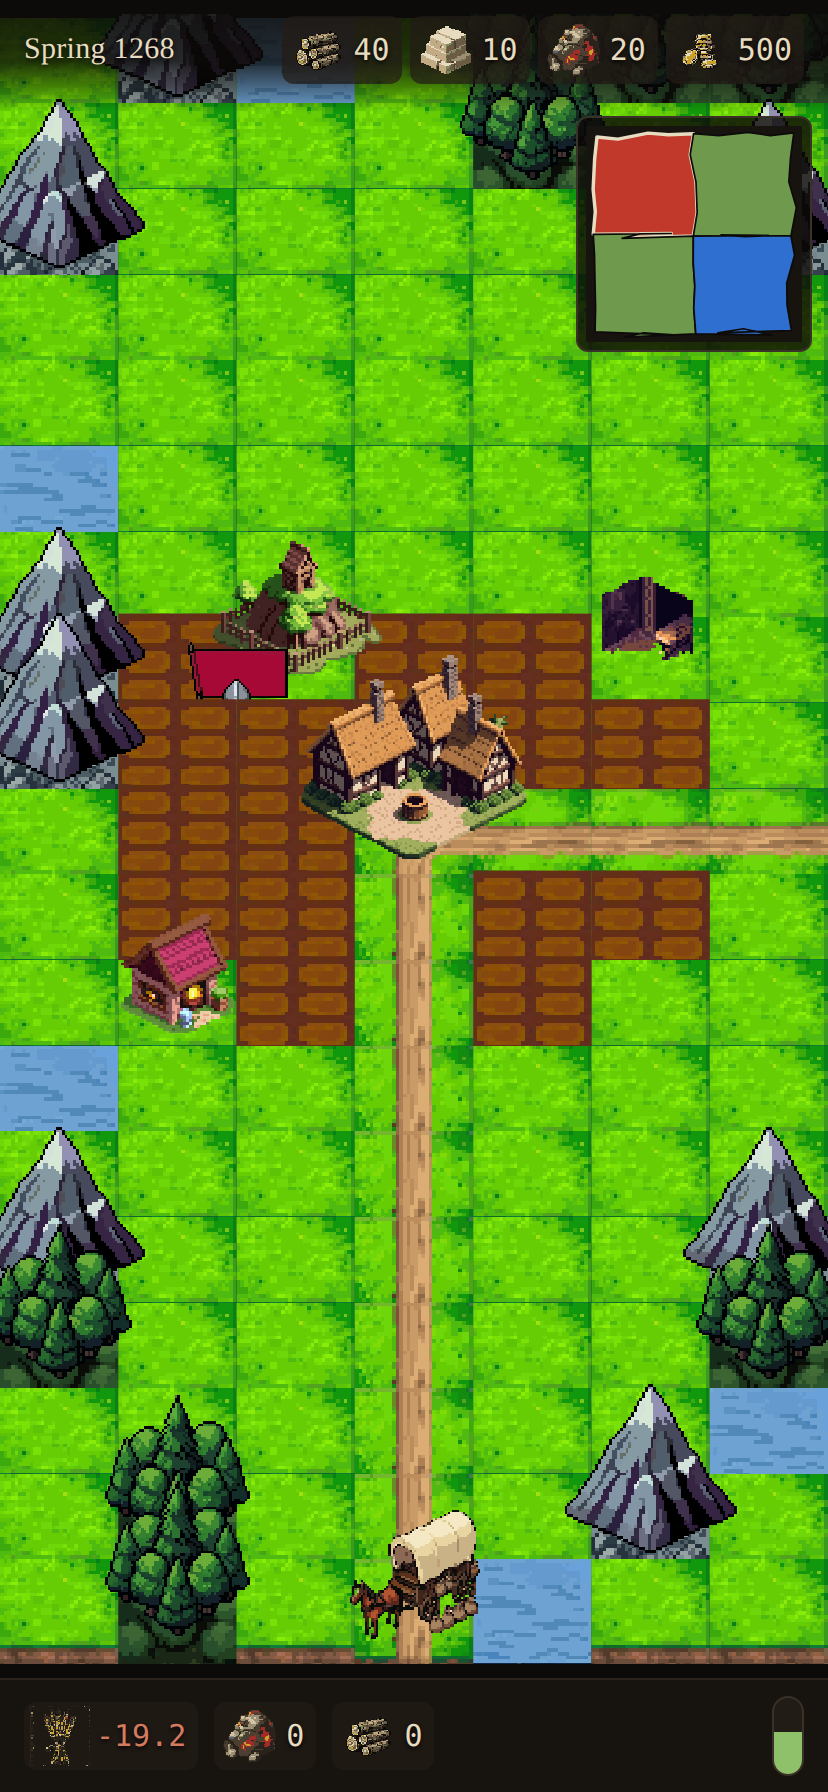
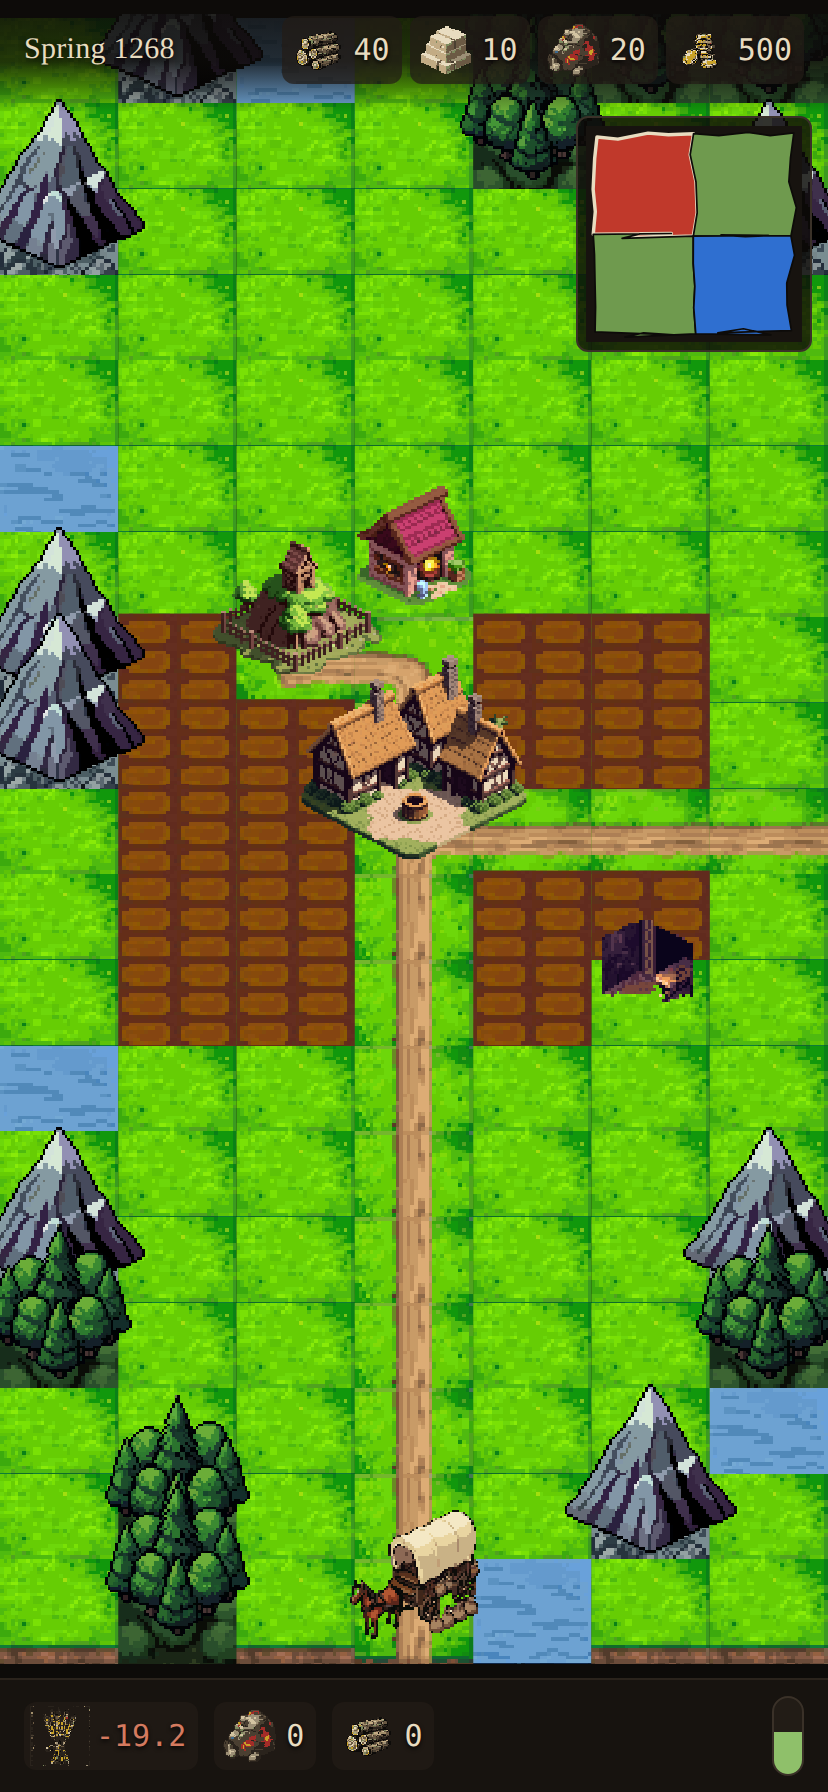
Garrisons stay in the keep, sprites stop getting clipped, roads reach the gate
Three fixes.

A garrison is INSIDE its castle, so it is no longer drawn on the map. The keep
already says the county is held; a token standing in the field beside it says
the men are in the field, which is the opposite of what garrisoned means.
Tokens belong to armies on the march — and a marching army is in transit along
a BORDER between counties, not on a cell inside one, so where it draws is a
question for the realm map rather than this screen. The army-token code comes
out of the county renderer instead of sitting there unused; the art, the
accessors and armies.html all stay.

The figure that came out as "a head and a flag" was a layering bug, not bad
art. Tiles and sprites were interleaved in one pass, so a man standing on row
r had his legs painted over by the ground tile of row r+1 — that tile is drawn
later and its canvas overlaps upward. Buildings survive losing their base; a
man does not. Now every tile is drawn, then every sprite, each in row order:
sprites still occlude each other correctly, and flat ground in front of a
standing figure no longer hides it, which it never should have.

Every castle now has a road to its gate. A keep a road cannot reach is a keep
nothing can relieve, resupply or besiege by the movement rules the rest of the
map obeys. The castle position moved out into its own function because the
roads have to know it before the interior exists.

That change broke the caravan's starting position in a way worth recording:
[…]

diff --git a/src/ui/county/CountyOverhead.tsx b/src/ui/county/CountyOverhead.tsx
@@ -7,9 +7,6 @@ import { healthFromRations, projectProduction, type Health } from '../../domain/
 import type { Resource } from '../../domain/resources';
 import { describeTurn, seasonOfTurn } from '../../domain/season';
 import {
-  armyBearerArt,
-  armySizeBand,
-  armySoldierArt,
   overheadCastleArt,
   overheadFieldArt,
   overheadForestArt,
@@ -65,29 +62,41 @@ export function CountyOverhead({ county, map, match }: Props) {
   const bounds = { cols: interior.cols, rows: interior.rows };
   const masks = roadMasks(interior.road, bounds);
 
-  // Sprites stand on the ground, so they must be drawn in row order together
-  // with it — a castle two rows back has to be covered by the land in front of
-  // it, not painted over the whole map afterwards.
-  const bandOf = (row: number) => row;
-  const bands = new Map<number, JSX.Element[]>();
-  const put = (row: number, el: JSX.Element) => {
-    const band = bands.get(bandOf(row)) ?? [];
+  // TWO LAYERS, and the split matters.
+  //
+  // Tiles first, all of them, in row order so each row's depth band is covered
+  // by the row in front. THEN sprites, also in row order so they occlude each
+  // other correctly.
+  //
+  // Interleaving them was a real bug: a figure standing on row r had its legs
+  // painted over by the ground tile of row r+1, because that tile is drawn
+  // later and its canvas overlaps upward. Buildings are tall enough to survive
+  // losing their base; a man is not, and came out as a head and a flag.
+  //
+  // Flat ground in front of a standing figure should never hide it — the
+  // ground is at floor level and the figure rises off it.
+  const tiles = new Map<number, JSX.Element[]>();
+  const sprites = new Map<number, JSX.Element[]>();
+  const into = (layer: Map<number, JSX.Element[]>) => (row: number, el: JSX.Element) => {
+    const band = layer.get(row) ?? [];
     band.push(el);
-    bands.set(bandOf(row), band);
+    layer.set(row, band);
   };
+  const putTile = into(tiles);
+  const put = into(sprites);
 
   for (const cell of interior.ground) {
-    put(cell.row, <GroundTile key={`g${cell.col}_${cell.row}`} cell={cell} />);
+    putTile(cell.row, <GroundTile key={`g${cell.col}_${cell.row}`} cell={cell} />);
   }
   // Fields go down over the ground and UNDER the roads: a road is cut through
   // worked land, not ploughed over.
   for (const field of interior.fields) {
-    put(field.row, <FieldTileView key={field.id} field={field} />);
+    putTile(field.row, <FieldTileView key={field.id} field={field} />);
   }
   for (const cell of interior.road) {
     const mask = masks[`${cell.col},${cell.row}`];
     if (mask === undefined) continue;
-    put(cell.row, <RoadTile key={`r${cell.col}_${cell.row}`} cell={cell} mask={mask} />);
+    putTile(cell.row, <RoadTile key={`r${cell.col}_${cell.row}`} cell={cell} mask={mask} />);
   }
   // Peaks and woods are sprites standing on their own ground, not flat tiles.
   // See overheadMountainArt for why that distinction matters at this camera —
@@ -116,23 +125,14 @@ export function CountyOverhead({ county, map, match }: Props) {
     );
   }
 
-  // Armies go down AFTER the buildings they stand beside. Within a row things
-  // paint in the order they were added, so a garrison queued before the keep is
-  // a garrison painted over by it.
-  for (const army of Object.values(match.armies)) {
-    if (army.location.kind !== 'garrison' || army.location.county !== county.id) continue;
-    const owner = match.players.find((p) => p.id === army.owner);
-    put(
-      castle.row,
-      <ArmySprite
-        key={army.id}
-        col={castle.col}
-        row={castle.row}
-        seat={owner?.seat ?? 0}
-        troops={Object.values(army.troops).reduce((a, b) => a + (b ?? 0), 0)}
-      />,
-    );
-  }
+  // GARRISONED ARMIES ARE NOT DRAWN. A garrison is inside its castle, and the
+  // keep on the map already says the county is held — a token standing in the
+  // field beside it says the men are in the field, which is the opposite of
+  // what garrisoned means. Tokens appear when an army takes the road.
+  //
+  // Marching armies are not placed yet: an in-transit army lives on a BORDER
+  // between two counties, not on a cell inside one, so where it draws is a
+  // question for the realm map rather than this screen.
 
   // The caravan, if it is in this county. Its cell always sits on a road —
   // county/movement.ts is what guarantees a wagon can never be anywhere else.
@@ -141,7 +141,8 @@ export function CountyOverhead({ county, map, match }: Props) {
     put(row, <WagonSprite key="merchant" col={col} row={row} />);
   }
 
-  const rows = [...bands.keys()].sort((a, b) => a - b);
+  const tileRows = [...tiles.keys()].sort((a, b) => a - b);
+  const spriteRows = [...sprites.keys()].sort((a, b) => a - b);
 
   return (
     <div className="ov">
@@ -155,8 +156,11 @@ export function CountyOverhead({ county, map, match }: Props) {
           role="img"
           aria-label={`${county.name}, seen from above in ${season}`}
         >
-          {rows.map((row) => (
-            <g key={row}>{bands.get(row)}</g>
+          {tileRows.map((row) => (
+            <g key={`t${row}`}>{tiles.get(row)}</g>
+          ))}
+          {spriteRows.map((row) => (
+            <g key={`s${row}`}>{sprites.get(row)}</g>
           ))}
         </svg>
 
@@ -257,69 +261,6 @@ function MountainSprite({ col, row }: { col: number; row: number }) {
   const art = overheadMountainArt();
   if (art.missing || !art.url) return null;
   return <MapSprite col={col} row={row} url={art.url} size={1.5} label="Mountain" />;
-}
-
-/**
- * An army standing on the map.
- *
- * Two questions answered without opening anything: WHOSE, from the flag the
- * bearer carries in the owner's seat colour, and HOW BIG, from the number of
- * figures — one, two or three for small, medium and large.
- *
- * Only the bearer is coloured. Three men carrying three flags would read as
- * three armies rather than one large one, which is the opposite of what the
- * count is for.
- */
-const FIGURES_FOR: Record<ReturnType<typeof armySizeBand>, number> = {
-  small: 1,
-  medium: 2,
-  large: 3,
-};
-
-/** A loose knot, so two and three read as "more men" and not as a formation. */
-const FIGURE_OFFSETS = [
-  { x: -0.5, y: 0.9 },
-  { x: -0.16, y: 1.32 },
-  { x: -0.84, y: 1.36 },
-] as const;
-
-function ArmySprite({
-  col,
-  row,
-  seat,
-  troops,
-}: {
-  col: number;
-  row: number;
-  seat: number;
-  troops: number;
-}) {
-  const bearer = armyBearerArt(seat);
-  const soldier = armySoldierArt();
-  const count = FIGURES_FOR[armySizeBand(troops)];
-
-  // Bearer last, so his flag is never hidden behind a spearman's shoulder.
-  const figures = FIGURE_OFFSETS.slice(0, count)
-    .map((offset, i) => ({ offset, art: i === 0 ? bearer : soldier, key: i }))
-    .reverse();
-
-  return (
-    <>
-      {figures.map(({ offset, art, key }) =>
-        art.missing || !art.url ? null : (
-          <MapSprite
-            key={key}
-            col={col}
-            row={row}
-            url={art.url}
-            size={1.15}
-            offset={offset}
-            label={`${troops} men`}
-          />
-        ),
-      )}
-    </>
-  );
 }
 
 function ForestSprite({ col, row }: { col: number; row: number }) {

diff --git a/src/ui/county/overheadCamera.test.ts b/src/ui/county/overheadCamera.test.ts
@@ -87,10 +87,18 @@ describe('county roads', () => {
     for (const cell of lastCol) expect(masks[`${cell.col},${cell.row}`]! & E).toBe(E);
   });
 
-  it('lays no road at all for a county with no neighbours', () => {
-    // Not a crash and not a road to nowhere: a county with nothing beside it
-    // still has a town, it just has nothing to connect to.
-    expect(build([]).road).toEqual([{ col: 2, row: 6 }]);
+  it('lays no road OUT of a county with no neighbours, but still one to its keep', () => {
+    // Nothing beside it means nothing to connect to, so no road reaches an
+    // edge. The town-to-castle spur is internal and exists regardless — the
+    // keep has to be reachable whether or not the county has neighbours.
+    const interior = build([]);
+    const onEdge = interior.road.filter(
+      (c) =>
+        c.col <= 0 || c.row <= 0 || c.col >= interior.cols - 1 || c.row >= interior.rows - 1,
+    );
+    expect(onEdge).toEqual([]);
+    expect(interior.road).toContainEqual({ col: interior.castle.col, row: interior.castle.row });
+    expect(interior.road).toContainEqual({ col: interior.town.col, row: interior.town.row });
   });
 
   it('keeps the road clear of fields and impassable ground', () => {
@@ -105,7 +113,7 @@ describe('county roads', () => {
     }
   });
 
-  it('stands the castle apart from the town, off the road and off the rim', () => {
+  it('stands the castle apart from the town and off the rim', () => {
     const interior = build(['e', 's']);
     const { castle, town } = interior;
     expect(castle).not.toEqual(town);
@@ -114,10 +122,35 @@ describe('county roads', () => {
     expect(castle.row).toBeGreaterThan(0);
     expect(castle.row).toBeLessThan(interior.rows - 1);
 
-    const onRoad = interior.road.some((c) => c.col === castle.col && c.row === castle.row);
-    expect(onRoad).toBe(false);
     const onField = interior.fields.some((f) => f.col === castle.col && f.row === castle.row);
     expect(onField).toBe(false);
+  });
+
+  it('always puts a road to the castle gate', () => {
+    // A keep a road cannot reach is a keep nothing can relieve, resupply or
+    // besiege by the movement rules the rest of the map obeys.
+    for (const exits of [['e', 's'], ['n'], ['n', 'e', 's', 'w'], []] as const) {
+      const interior = build(exits);
+      const onRoad = interior.road.some(
+        (c) => c.col === interior.castle.col && c.row === interior.castle.row,
+      );
+      expect(onRoad, `exits=[${exits.join(',')}]`).toBe(true);
+    }
+  });
+
+  it('keeps the castle road joined to the network, not a stranded stub', () => {
+    // The spur has to actually connect: a road AT the gate that touches nothing
+    // else would satisfy the test above while leading nowhere.
+    const interior = build(['e', 's']);
+    const road = new Set(interior.road.map((c) => `${c.col},${c.row}`));
+    const { castle } = interior;
+    const neighbours = [
+      `${castle.col},${castle.row - 1}`,
+      `${castle.col + 1},${castle.row}`,
+      `${castle.col},${castle.row + 1}`,
+      `${castle.col - 1},${castle.row}`,
+    ].filter((k) => road.has(k));
+    expect(neighbours.length).toBeGreaterThan(0);
   });
 
   it('gives a county its hard-mineral site and no other', () => {

diff --git a/src/domain/county/interior.ts b/src/domain/county/interior.ts
@@ -245,7 +245,7 @@ export function createInterior(opts: {
   // --- roads -------------------------------------------------------------
   // Laid FIRST, so the ground layer knows to keep them clear. A road that
   // ends in a mountain is not a road.
-  const road = buildRoads(town, { cols, rows }, exits);
+  const road = buildRoads(town, castleAt(cols, rows), { cols, rows }, exits);
   const onRoad = new Set(road.map((c) => cellKey(c.col, c.row)));
 
   // Far enough from the town to read as its own building, close enough to
@@ -365,6 +365,25 @@ export function createInterior(opts: {
 }
 
 /**
+ * Where the keep stands.
+ *
+ * One column across and two rows back from the town: diagonal, so the two
+ * sprites never touch, and never on the grid's outer ring where half the keep
+ * would sit off the edge of the view.
+ *
+ * Computed rather than stored because the roads have to know it before the
+ * interior exists — a castle a road cannot reach is a castle nothing can
+ * relieve, resupply or besiege by the rules the map is drawn to.
+ */
+function castleAt(cols: number, rows: number) {
+  const town = { col: Math.floor(cols / 2), row: Math.floor(rows / 2) };
+  return {
+    col: Math.min(cols - 2, Math.max(1, town.col - 1)),
+    row: Math.min(rows - 2, Math.max(1, town.row - 2)),
+  };
+}
+
+/**
  * Lay the county's roads: town centre out to each edge that has a neighbour.
  *
  * An L-path (along the row, then along the column) rather than anything
@@ -377,6 +396,7 @@ export function createInterior(opts: {
  */
 function buildRoads(
   town: { readonly col: number; readonly row: number },
+  castle: { readonly col: number; readonly row: number },
   bounds: { readonly cols: number; readonly rows: number },
   exits: readonly Exit[],
 ): { readonly col: number; readonly row: number }[] {
@@ -407,6 +427,16 @@ function buildRoads(
     for (let r = town.row; r !== target.row; r += stepRow) push(target.col, r);
     push(target.col, target.row);
   }
+
+  // A spur to the keep. Every castle must be reachable by road: a garrison is
+  // relieved, resupplied and besieged along one, and a keep sitting in a field
+  // with no way in contradicts the movement rules the rest of the map obeys.
+  // The same L-path as the exits, run inward from the town rather than out.
+  const stepRow = Math.sign(castle.row - town.row);
+  for (let r = town.row; r !== castle.row; r += stepRow) push(town.col, r);
+  const stepCol = Math.sign(castle.col - town.col);
+  for (let c = town.col; c !== castle.col; c += stepCol) push(c, castle.row);
+  push(castle.col, castle.row);
 
   return out;
 }

diff --git a/src/domain/match/createMatch.ts b/src/domain/match/createMatch.ts
@@ -194,12 +194,28 @@ function firstMerchantPost(
   const interior = start ? counties[start.county]?.interior : null;
   if (!start || !interior) return null;
 
-  const onGrid = interior.road.filter(
-    (c) => c.col >= 0 && c.row >= 0 && c.col < interior.cols && c.row < interior.rows,
-  );
   // Furthest along the road from the town, so the wagon reads as passing
   // through rather than parked in the market square.
-  const post = onGrid[onGrid.length - 1];
+  //
+  // Measured rather than "the last cell in the list": the road now ends with a
+  // spur to the castle gate, so taking the tail parked the caravan against the
+  // keep. The castle cell is excluded outright — a merchant waits on the
+  // highway, not in the bailey.
+  const { castle } = interior;
+  const candidates = interior.road.filter(
+    (c) =>
+      c.col >= 0 &&
+      c.row >= 0 &&
+      c.col < interior.cols &&
+      c.row < interior.rows &&
+      !(c.col === castle.col && c.row === castle.row),
+  );
+  const fromTown = (c: { col: number; row: number }) =>
+    Math.hypot(c.col - interior.town.col, c.row - interior.town.row);
+  const post = candidates.reduce<(typeof candidates)[number] | undefined>(
+    (best, c) => (best === undefined || fromTown(c) > fromTown(best) ? c : best),
+    undefined,
+  );
   return post ? { county: start.county, at: { col: post.col, row: post.row } } : null;
 }
 
